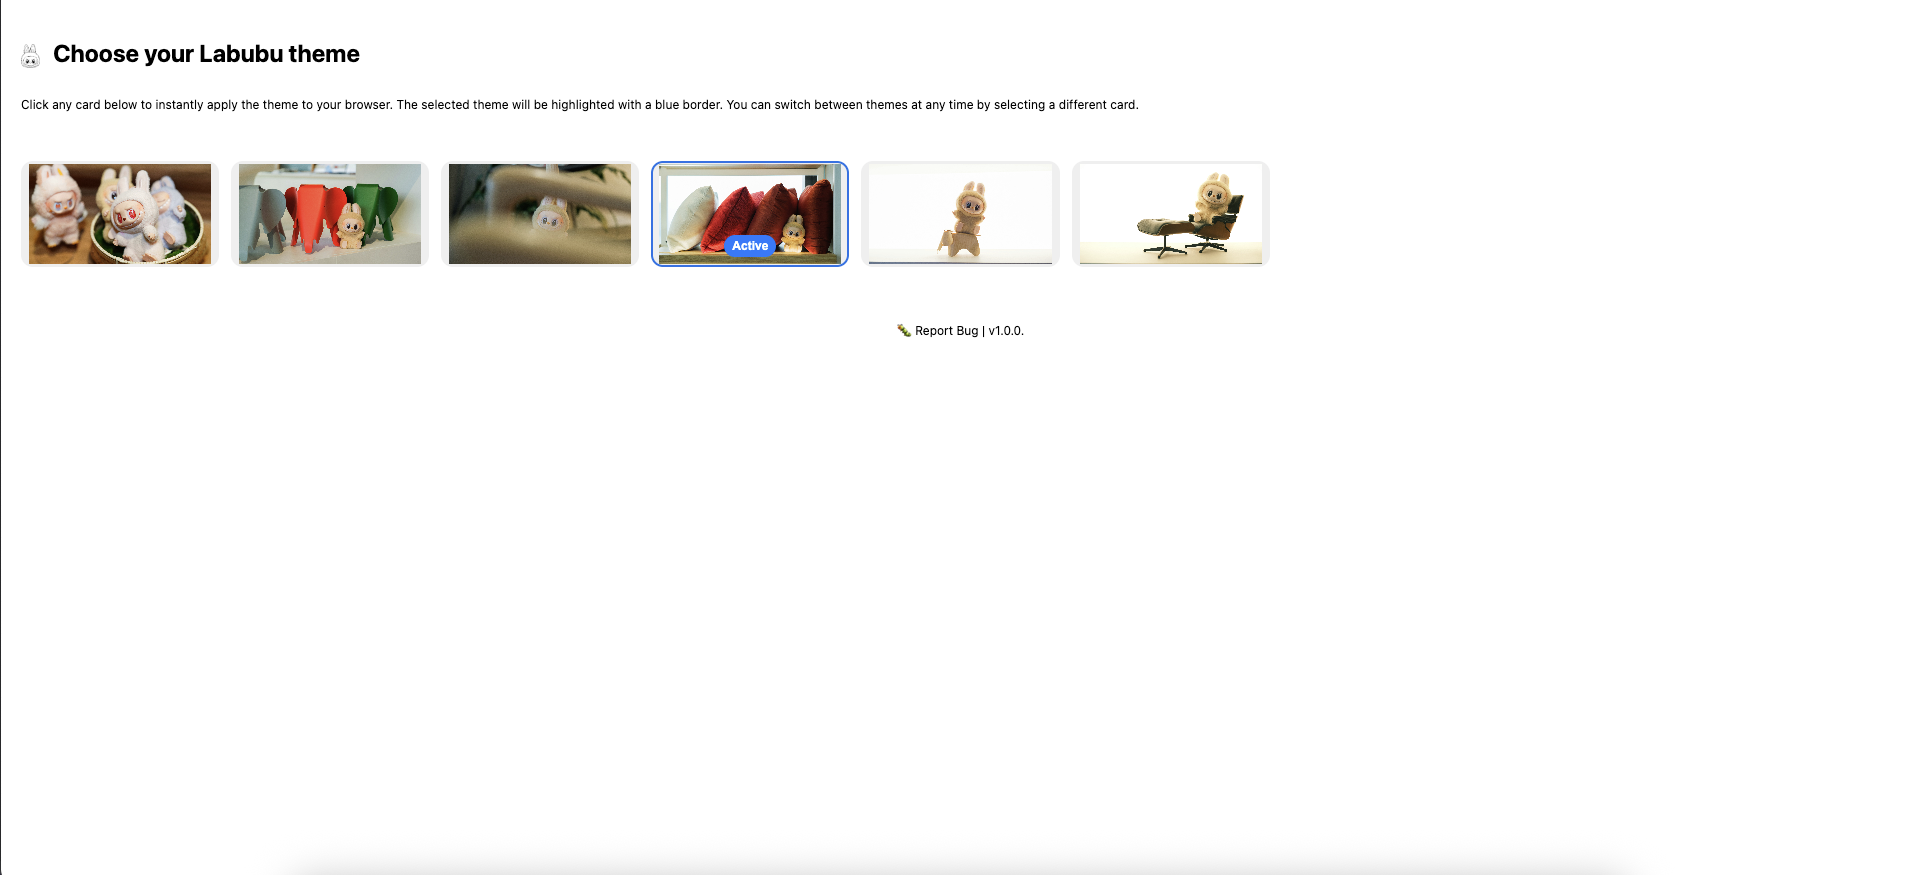
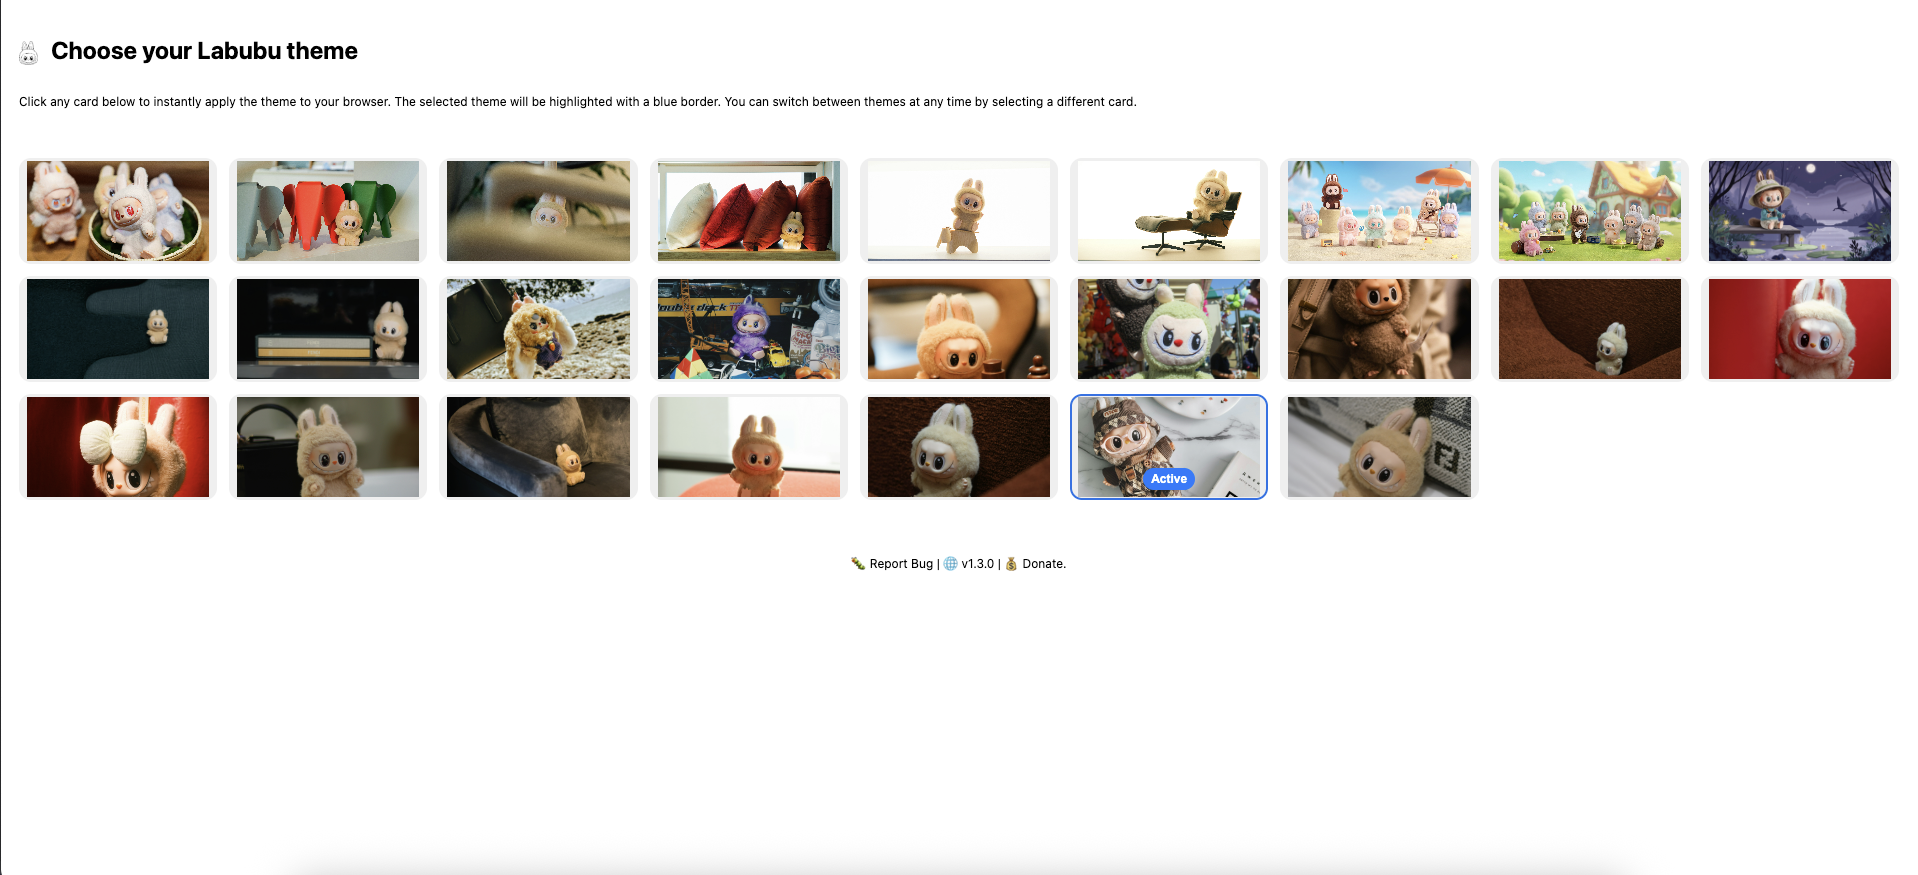
update screenshot

Changed region(s): [[0.0, 0.1851, 0.9844, 0.5863], [0.0, 0.0309, 0.5845, 0.1234], [0.4614, 0.6171, 0.5537, 0.648]]

diff --git a/README.md b/README.md
@@ -72,8 +72,8 @@ labubu-theme-browser-extension/
 - Similar structure to Chrome, adapted for Firefox's WebExtensions API.
 
 ### Background Images
-The extension includes 6 high-quality Labubu-themed background images:
-- `labubu-01.jpg` through `labubu-06.jpg`
+The extension includes 25 high-quality Labubu-themed background images:
+- `labubu-01.jpg` through `labubu-25.jpg`
 - Images are stored in the `images/` directory for each browser
 - Configured via `images.json` for easy management
 
@@ -111,7 +111,7 @@ This project is open source and available under the [Apache License 2.0](LICENSE
 
 ## 🙏 Acknowledgments
 
-- Images from Unsplash by [davidkristianto](https://unsplash.com/@davidkristianto), [declansun](https://unsplash.com/@declansun), [CyberVault](https://alphacoders.com/users/profile/338679/CyberVault).
+- Images from [Unsplash](https://unsplash.com/).
 - Icon SVG files from [Free SVG Download](https://www.freesvgdownload.com/labubu-free-svg-files/).
 - Built with love for plush toy enthusiasts everywhere.
 
